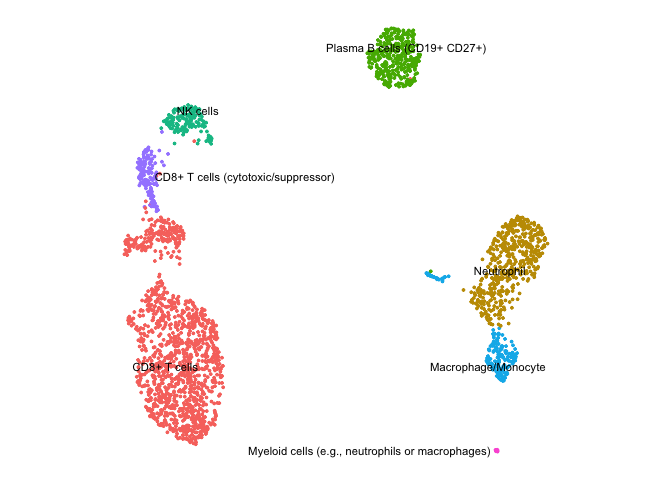
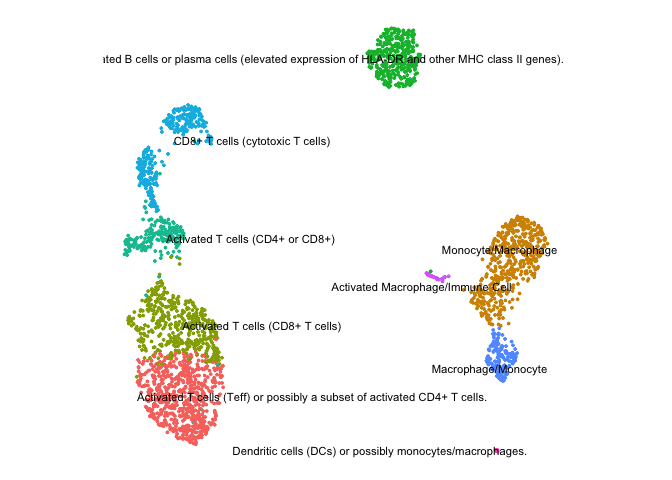
openAI brr.

diff --git a/README.md b/README.md
@@ -53,18 +53,18 @@ library(Seurat)
 library(tidyverse)
 library(httr)
 
-pbmc.data <- Read10X("../../Downloads/filtered_gene_bc_matrices/hg19/")
+pbmc.data <- Read10X("../../../Downloads/filtered_gene_bc_matrices/hg19/")
 
 pbmc <- CreateSeuratObject(counts = pbmc.data, project = "pbmc3k", min.cells = 3, min.features = 200)
 pbmc[["percent.mt"]] <- PercentageFeatureSet(pbmc, pattern = "^MT-")
 pbmc <- subset(pbmc, subset = nFeature_RNA > 200 & nFeature_RNA < 2500 & percent.mt < 5)
 
 # note that you can chain multiple commands together with %>%
-pbmc <- pbmc %>% 
+pbmc <- pbmc %>%
     SCTransform(verbose = F) %>%
     RunPCA(verbose = F) %>%
     FindNeighbors(dims = 1:10, verbose = F) %>%
-    FindClusters(resolution = 0.5, verbose = F) %>% 
+    FindClusters(resolution = 0.5, verbose = F) %>%
     RunUMAP(dims = 1:10, verbose = F)
 
 DimPlot(pbmc, label = T, label.size = 3) + theme_void() + theme(aspect.ratio = 1)
@@ -93,25 +93,25 @@ library(ceLLama)
 res <- ceLLama(pbmc.markers.list, temperature = 0, seed = 101, n_genes = 30)
 ```
 
-    ## >> Response: CD8+ T cells
+    ## >> Response: Activated T cells (Teff) or possibly a subset of activated CD4+ T cells.
 
-    ## >> Response: Neutrophil
+    ## >> Response: Monocyte/Macrophage
 
-    ## >> Response: CD8+ T cells
+    ## >> Response: Activated T cells (CD8+ T cells)
 
-    ## >> Response: Plasma B cells (CD19+ CD27+)
+    ## >> Response: B cells (CD79A, CD74, CD79B, HLA-DRA, MS4A1, TCL1A) with a subset of activated B cells or plasma cells (elevated expression of HLA-DR and other MHC class II genes).
 
-    ## >> Response: CD8+ T cells
+    ## >> Response: Activated T cells (CD4+ or CD8+)
 
-    ## >> Response: NK cells
-
-    ## >> Response: Macrophage/Monocyte
-
-    ## >> Response: CD8+ T cells (cytotoxic/suppressor)
+    ## >> Response: CD8+ T cells (cytotoxic T cells)
 
     ## >> Response: Macrophage/Monocyte
 
-    ## >> Response: Myeloid cells (e.g., neutrophils or macrophages)
+    ## >> Response: CD8+ T cells (cytotoxic T cells)
+
+    ## >> Response: Activated Macrophage/Immune Cell
+
+    ## >> Response: Dendritic cells (DCs) or possibly monocytes/macrophages.
 
 > \[!TIP\]  
 > Increase `temperature` to diversify outputs. Set different
@@ -130,6 +130,79 @@ DimPlot(pbmc, label = T, repel = T, label.size = 3) + theme_void() + theme(aspec
 ```
 
 ![](README_files/figure-gfm/transfer%20annotations-1.png)<!-- -->
+
+## Using OpenAI API
+
+You can also use OpenAI for annotating your cell types.
+
+First, you can to create a `.Renviron` file where you keep your API key.
+`OPENAI_API_KEY="Best_key_ever"`
+
+``` r
+# Default is gpt-4o-mini
+res.openai <-
+    ceLLama(pbmc.markers.list, temperature = 0, seed = 101, n_genes = 30,
+        use_openai = T, # money brr.
+        model = "gpt-4o-mini", # set the model
+        openai_api_key = Sys.getenv("OPENAI_API_KEY") # or just copy/paste
+    )
+```
+
+    ## gpt-4o-mini is being used!
+
+    ## >> Response: T cell
+
+    ## gpt-4o-mini is being used!
+
+    ## >> Response: Monocyte/macrophage lineage.
+
+    ## gpt-4o-mini is being used!
+
+    ## >> Response: CD4+ T cells
+
+    ## gpt-4o-mini is being used!
+
+    ## >> Response: B cell.
+
+    ## gpt-4o-mini is being used!
+
+    ## >> Response: Cytotoxic T lymphocytes (CTLs)
+
+    ## gpt-4o-mini is being used!
+
+    ## >> Response: Cytotoxic T lymphocytes (CTLs) or Natural Killer (NK) cells.
+
+    ## gpt-4o-mini is being used!
+
+    ## >> Response: Monocyte/macrophage lineage
+
+    ## gpt-4o-mini is being used!
+
+    ## >> Response: Cytotoxic CD8+ T cells
+
+    ## gpt-4o-mini is being used!
+
+    ## >> Response: Dendritic cells
+
+    ## gpt-4o-mini is being used!
+
+    ## >> Response: Megakaryocyte
+
+``` r
+# transfer the labels
+annotations <- map_chr(res.openai, 1)
+
+names(annotations) <- levels(pbmc)
+pbmc <- RenameIdents(pbmc, annotations)
+```
+
+    ## Warning: Cannot find identity NA
+
+``` r
+DimPlot(pbmc, label = T, repel = T, label.size = 3) + theme_void() + theme(aspect.ratio = 1) & NoLegend()
+```
+
+![](README_files/figure-gfm/unnamed-chunk-3-1.png)<!-- -->
 
 ## Creating Reports
 
@@ -157,8 +230,3 @@ View the full report [here](report.html).
 
 This project is licensed under the CC BY-NC 4.0 License. For more
 details, visit [here](https://creativecommons.org/licenses/by-nc/4.0/).
-
-## Further questions?
-You can join our discord community! 
-
-[Click here to join](https://discord.gg/Ar5SJMgWDN)
